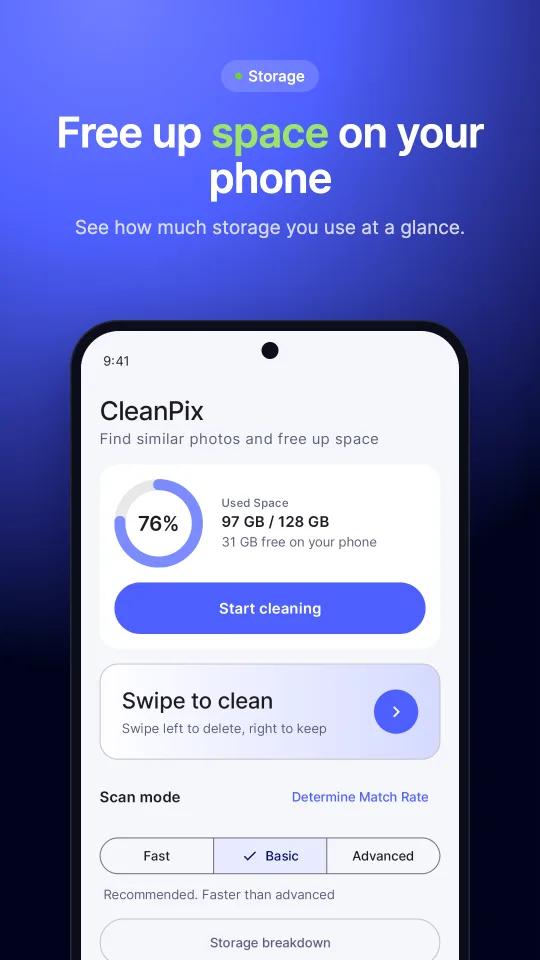
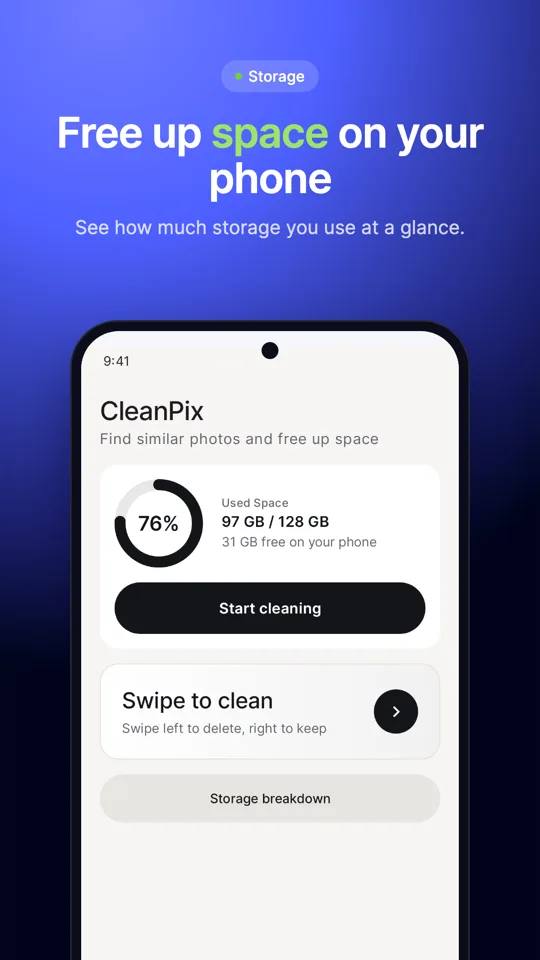
site: CleanPix 3.5.0 landing: one accurate scan instead of scan modes, preselected duplicates, new light screenshots (tr/en)

diff --git a/resources/views/apps/cleanpix.blade.php b/resources/views/apps/cleanpix.blade.php
@@ -21,21 +21,21 @@
     $freed = array_sum(array_column($roll, 'frees'));
 
     $stages = [
-        ['name' => 'Tara', 'text' => 'Hızlı, Temel ya da Gelişmiş modu seç. Hızlı en çabuk olanı, Temel önerilen denge, Gelişmiş daha yavaş ama en isabetli. Tarama arka planda sürer.', 'shot' => 5],
-        ['name' => 'Grupla', 'text' => 'Seri çekimler ve birbirine çok benzeyen kareler yan yana gruplanır; her grubun orijinali işaretlenir.', 'shot' => 1],
-        ['name' => 'Seç', 'text' => 'Akıllı seçim her gruptaki en iyi fotoğrafı tutar, gerisini seçer. Her seçimi tek dokunuşla değiştirebilirsin.', 'shot' => 2],
+        ['name' => 'Tara', 'text' => 'Tek dokunuşla tara; seçilecek mod ya da ayar yok. İlerleme yüzde olarak görünür, tarama arka planda sürer.', 'shot' => 5],
+        ['name' => 'Grupla', 'text' => 'Seri çekimler ve birbirine çok benzeyen kareler yan yana gruplanır; her grubun orijinali işaretlenir. Boş duvar ya da karanlık kare gibi sıradan çekimler gruplanmaz.', 'shot' => 1],
+        ['name' => 'Seç', 'text' => 'Kopyalar kapladıkları yerle birlikte seçili gelir, orijinal korunur. İstersen Akıllı seçim her gruptaki en iyi fotoğrafı tutar.', 'shot' => 2],
         ['name' => 'Karşılaştır', 'text' => 'Bir grubu tam ekranda aç ve silmeden önce kareler arasında kaydır. Neyin kalacağına sen karar verirsin.', 'shot' => 6],
         ['name' => 'Sil', 'text' => 'Onayla; CleanPix kaç fotoğrafın gittiğini ve ne kadar yer açıldığını gösterir.', 'shot' => 7],
     ];
 
     // Each tile is a crop of a real screenshot (540×960): [x, y, w, h] in its pixels, and the window's width in the tile.
     $tiles = [
-        ['name' => 'Üç tarama modu', 'fact' => 'Hızlı, Temel (önerilen) ve Gelişmiş.', 'shot' => 3, 'crop' => [84, 725, 372, 235], 'width' => 60, 'wide' => true],
-        ['name' => 'Akıllı seçim', 'fact' => 'Her gruptan en iyisi kalır, gerisi seçilir.', 'shot' => 2, 'crop' => [96, 440, 348, 240], 'width' => 80],
-        ['name' => 'Depolama bir bakışta', 'fact' => 'Telefonunda ne kadar yer kullandığını tarama başlamadan gör.', 'shot' => 3, 'crop' => [84, 380, 372, 330], 'width' => 50, 'wide' => true],
+        ['name' => 'Tek, hassas tarama', 'fact' => 'Ayar yok; ilerleme yüzde olarak görünür.', 'shot' => 5, 'crop' => [96, 570, 348, 310], 'width' => 50, 'wide' => true],
+        ['name' => 'Kopyalar seçili gelir', 'fact' => 'Orijinal korunur, kopyalar tek dokunuşla gider.', 'shot' => 2, 'crop' => [96, 520, 348, 390], 'width' => 70],
+        ['name' => 'Depolama bir bakışta', 'fact' => 'Telefonunda ne kadar yer kullandığını tarama başlamadan gör.', 'shot' => 3, 'crop' => [96, 462, 348, 180], 'width' => 60, 'wide' => true],
         ['name' => 'Tam ekran karşılaştırma', 'fact' => 'Silmeden önce her kareye büyük bak.', 'shot' => 6, 'crop' => [82, 370, 376, 560], 'width' => 58],
-        ['name' => 'Eski ekran görüntüleri ve büyük videolar', 'fact' => 'Depolama dökümü 90 günden eski ekran görüntülerini ve 100 MB üstü videoları bulur; birkaç dokunuşla yer aç.', 'shot' => 4, 'crop' => [92, 516, 356, 146], 'width' => 60, 'wide' => true],
-        ['name' => 'Temiz bir galeri', 'fact' => 'Kaç fotoğrafın gittiğini ve açılan yeri gösterir.', 'shot' => 7, 'crop' => [96, 620, 348, 240], 'width' => 80],
+        ['name' => 'Eski ekran görüntüleri ve büyük videolar', 'fact' => 'Depolama dökümü 3 aydan eski ekran görüntülerini ve 100 MB üstü videoları bulur; birkaç dokunuşla yer aç.', 'shot' => 4, 'crop' => [96, 588, 348, 170], 'width' => 60, 'wide' => true],
+        ['name' => 'Temiz bir galeri', 'fact' => 'Kaç fotoğrafın gittiğini ve açılan yeri gösterir.', 'shot' => 7, 'crop' => [96, 540, 348, 370], 'width' => 70],
     ];
     $crop = fn (array $t) => sprintf(
         'width:%d%%;aspect-ratio:%d/%d;--w:%.2f%%;--x:%.2f%%;--y:%.2f%%',

diff --git a/config/apps.php b/config/apps.php
@@ -27,11 +27,13 @@ return [
         'tagline' => 'Tekrarlayan ve birbirine benzeyen fotoğrafları bulup telefonunda yer aç.',
         'description' => 'CleanPix, cihazındaki yinelenen ya da birbirine çok benzeyen fotoğrafları tarar; hangisini sileceğine sen karar verirsin.',
         'features' => [
-            'Hızlı tarama algoritması',
-            'Eski ekran görüntülerini ve büyük videoları temizle: Depolama dökümü 90 günden eski ekran görüntülerini ve 100 MB ve üzeri videoları bulur, birkaç dokunuşla yer açarsın.',
+            'Tek, hassas tarama: ayar ya da mod yok; boş duvar, karanlık kare gibi sıradan çekimler gruplanmaz, ilerleme yüzde olarak görünür',
+            'Kopyalar boyutlarıyla seçili gelir, orijinal korunur; tek dokunuşla temizle',
+            'Eski ekran görüntülerini ve büyük videoları temizle: Depolama dökümü 3 aydan eski ekran görüntülerini ve 100 MB üstü videoları bulur, birkaç dokunuşla yer açarsın.',
+            'Kaydırarak temizle: silmek için sola, tutmak için sağa kaydır; son seçimi geri al',
             'Silme kararı tamamen sende',
             'Fotoğraflar cihazından hiç çıkmaz',
-            'Sade, kolay arayüz',
+            'Açık görünüm; karanlık mod sistemi izler',
         ],
         'play_store' => 'https://play.google.com/store/apps/details?id=com.similarphotofinder.cleaner.removeduplicate',
         'privacy_url' => 'https://similiar-finder.web.app/privacy-policy',
